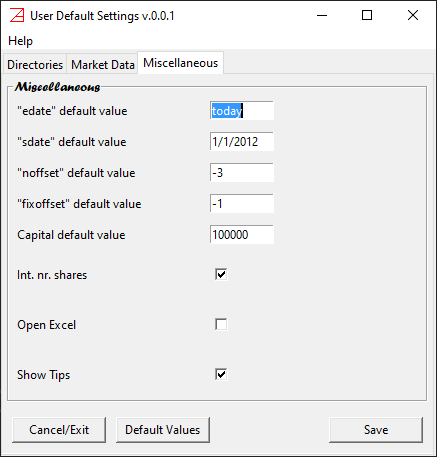
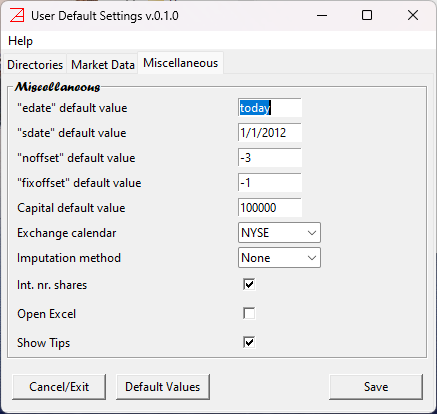
support for non-USA exchanges
support for non-USA exchanges and imputation.

diff --git a/azapyGUI/AppSettingsPageMisc.py b/azapyGUI/AppSettingsPageMisc.py
@@ -1,5 +1,8 @@
 import tkinter as tk
+import tkinter.ttk as ttk
 from copy import deepcopy
+import pandas as pd
+import azapy as az
 
 import azapyGUI.config as config
 import azapyGUI.configSettings as configSettings
@@ -26,7 +29,6 @@ class AppSettingsPageMisc(tk.Frame):
         
         # on frm
         self._setDef = configSettings.settings_model[self._category]
-        #self.settings = deepcopy(configSettings.MasterApplicationSettings)
         self.settings = {key: configSettings.MasterApplicationSettings[key] for key in self._setDef.keys()}
         row = 0
         self._chk_val = {}
@@ -35,25 +37,35 @@ class AppSettingsPageMisc(tk.Frame):
             match value["type"]:
                 case 'Checkbutton':
                     lbl = tk.Label(master=frm_set, text=value["field"], anchor=tk.W)
-                    lbl.grid(row=row, column=0, padx=5, pady=5, sticky=tk.EW)
+                    lbl.grid(row=row, column=0, padx=5, pady=2, sticky=tk.EW)
                     chk_var = tk.BooleanVar(master=frm_set, value=self.settings[param])
                     chk_btn = tk.Checkbutton(master=frm_set, variable = chk_var, 
                                              onvalue = True, offvalue = False, 
-                                             height=2, width=18, anchor=tk.W)
-                    chk_btn.grid(row=row, column=1, padx=5, pady=5, sticky=tk.W)
+                                             height=1, width=10, anchor=tk.W)
+                    chk_btn.grid(row=row, column=1, padx=5, pady=2, sticky=tk.W)
                     self._chk_val[param] = chk_var
                     self._chk_btn[param] = chk_btn
                     config.tiptil.bind(chk_btn, value["tip"])
                     row += 1
                 case 'Entry':
                     lbl = tk.Label(master=frm_set, text=value["field"], anchor=tk.W)
-                    lbl.grid(row=row, column=0, padx=5, pady=5, sticky=tk.W)
+                    lbl.grid(row=row, column=0, padx=5, pady=2, sticky=tk.W)
                     ent_var = tk.StringVar(master=frm_set, value=self.settings[param])
                     ent = tk.Entry(master=frm_set, textvariable=ent_var, validate='key', width=10)
                     ent['validatecommand'] = (ent.register(value["validate"]),'%S','%d','%P')
-                    ent.grid(row=row, column=1, padx=5, pady=5, sticky=tk.W)
+                    ent.grid(row=row, column=1, padx=5, pady=2, sticky=tk.W)
                     self._chk_val[param] = ent_var
                     config.tiptil.bind(ent, value["tip"])
+                    row += 1
+                case 'Combobox':
+                    lbl = tk.Label(master=frm_set, text=value["field"], anchor=tk.W)
+                    lbl.grid(row=row, column=0, padx=5, pady=2, sticky=tk.EW)
+                    cbx_var = tk.StringVar(master=frm_set, value=self.settings[param])
+                    cbx = ttk.Combobox(master=frm_set, textvariable=cbx_var, width=10, state='readonly')
+                    cbx["values"] = value["values"]
+                    cbx.grid(row=row, column=1, padx=5, pady=2, sticky=tk.W)
+                    self._chk_val[param] = cbx_var
+                    config.tiptil.bind(cbx, value["tip"])
                     row += 1
                 case _:
                     # you should not be here
@@ -88,14 +100,21 @@ class AppSettingsPageMisc(tk.Frame):
                         self._chk_btn[kk].select()
                     else:
                         self._chk_btn[kk].deselect()
-                case "Entry":
+                #case "Entry":
+                case _:
                     self._chk_val[kk].set(self.settings[kk])
         
         
     def _btn_save_func(self):
+        if self.settings['calendar'] != self._chk_val['calendar'].get():
+            config.MktDataDict.clear()
+            config.appMktDataFrame.refresh()
+
         self.settings.update({key: self._chk_val[key].get() for key in self._chk_val.keys()})
         configSettings.MasterApplicationSettings.update(self.settings)
         _saveMasterUserConfig(configSettings.MasterApplicationSettings)
         config.tiptil.turned(on=configSettings.MasterApplicationSettings["ShowTips"])
+        config.calendar = az.calendarGen(configSettings.MasterApplicationSettings["calendar"])
+        config._bday = pd.offsets.CustomBusinessDay(calendar=config.calendar)
 
                     

diff --git a/azapyGUI/configSettings.py b/azapyGUI/configSettings.py
@@ -2,7 +2,15 @@ import os
 import azapyGUI.configTips as configTips
 from azapyGUI.modelParametersValidation import _validDateMMDDYYYY, _validInt, _validIntNegative, _validIntPositive
 
-Version = '0.0.1'
+Version = '0.1.0'
+
+_exchange_calendar_values = ('NYSE', 'XBUE', 'XASX', 'XWBO', 'XBRU', 'BVMF', 'XTSE', 'XSGO', 'XSHG', 'XBOG', 
+                             'XPRA', 'XCSE', 'XLON', 'XHEL', 'XPAR', 'XFRA', 'ASEX', 'XHKG', 'XBUD', 'XICE', 
+                             'XBOM', 'XIDX', 'XDUB', 'XMIL', 'XTKS', 'XKLS', 'XMEX', 'XAMS', 'XNZE', 'XOSL', 
+                             'XKAR', 'XLIM', 'XPHS', 'XWAR', 'XLIS', 'XMOS', 'XSES', 'XJSE', 'XKRX', 'XMAD', 
+                             'XSTO', 'XSWX', 'XTAI', 'XBKK', 'XIST', 'XNYS')
+
+_imputation_method_values = ('None', 'linear')
 
 settings_model = {"Directors": {"UserPortfolioDirectory": {"default": None,
                                                            "type": 'ButtonDir',
@@ -93,6 +101,18 @@ settings_model = {"Directors": {"UserPortfolioDirectory": {"default": None,
                                                 "tip": configTips._settings_capital_default_tip,
                                                 "validate": _validIntPositive,
                                                 },
+                                    "calendar": {"default": 'NYSE',
+                                                 "type": 'Combobox',
+                                                 "field": 'Exchange calendar',
+                                                 "tip": configTips._exchange_calendar_tip,
+                                                 "values": _exchange_calendar_values,
+                                                },
+                                    "imputation": {"default": 'linear',
+                                                   "type": 'Combobox',
+                                                   "field": 'Imputation method',
+                                                   "tip": configTips._imputation_method_tip,
+                                                   "values": _imputation_method_values,
+                                                   },
                                     "nsh_round": {"default": True,
                                                   "type": 'Checkbutton',
                                                   "field": 'Int. nr. shares',
@@ -113,7 +133,6 @@ settings_model = {"Directors": {"UserPortfolioDirectory": {"default": None,
                   }
 
  
-
 def get_settings_default(category):
     rout = {kk:  vv["default"] for kk, vv in settings_model[category].items()}
     return rout

diff --git a/azapyGUI/serviceMasterUserConfig.py b/azapyGUI/serviceMasterUserConfig.py
@@ -1,5 +1,6 @@
 import pathlib
 import json
+import tkinter as tk
 
 import azapyGUI.configSettings as configSettings
 
@@ -9,15 +10,15 @@ def _fileMasterUserConfig():
 
 
 def _readMasterUserConfig():
-    out_file = _fileMasterUserConfig()
     try:
+        out_file = _fileMasterUserConfig()
         with open(out_file, 'r') as fp:
             data = json.load(fp)    
+        _update_version(data)
     except FileNotFoundError:
         data = configSettings.get_settings_default_all()
-        out_file.parent.mkdir(exist_ok=True, parents=True)
-        with open(out_file, 'w') as fp:
-            json.dump(data, fp)
+        _saveMasterUserConfig(data)
+
     return data
 
 
@@ -26,3 +27,16 @@ def _saveMasterUserConfig(data):
     out_file.parent.mkdir(exist_ok=True, parents=True)
     with open(out_file, 'w') as fp:
         json.dump(data, fp)
+
+
+def _update_version(data):
+    d_data = configSettings.get_settings_default_all()
+    if data['Version'] == d_data['Version']:
+        return 
+    
+    msg = f"The setting version was updated from {data['Version']} to {d_data['Version']}." + \
+          "Please check the Settings for new updated values."
+    tk.messagebox.showinfo(title='Setting Version Update', message=msg)
+    data = {kk: data.get(kk, vv) for kk, vv in d_data.items()}
+    data['Version'] = d_data['Version']
+    _saveMasterUserConfig(data)

diff --git a/azapyGUI/MktDataNode.py b/azapyGUI/MktDataNode.py
@@ -1,4 +1,5 @@
 import azapy as az
+import azapyGUI.config as config
 
 class MktDataNode:
     def __init__(self):
@@ -7,28 +8,33 @@ class MktDataNode:
         self.stats = None
         self.status = False
         self._summary = None
-        
-        
+
+
+    def _set_summary(self):
+        if self._summary is None: 
+            self._summary = az.summary_MkTdata(self.mktdata, calendar=config.calendar)
+
+
     def sdate(self):
-        if self._summary is None: self._summary = az.summary_MkTdata(self.mktdata)
+        self._set_summary()
         return self._summary.begin[0]
-    
-    
+
+
     def edate(self):
-        if self._summary is None: self._summary = az.summary_MkTdata(self.mktdata)
+        self._set_summary()
         return self._summary.end[0]
-    
-    
+
+
     def nrow(self):
-        if self._summary is None: self._summary = az.summary_MkTdata(self.mktdata)
+        self._set_summary()
         return self._summary.length[0]
-    
-    
+
+
     def iserror(self):
-        if self._summary is None: self._summary = az.summary_MkTdata(self.mktdata)
+        self._set_summary()
         return (self._summary.na_total[0] + self._summary.cont[0]) > 0
-    
-    
+
+
     def get_mktdata(self, edate=None):
         return self.mktdata if edate is None else self.mktdata[self.mktdata.index <= edate]
     

diff --git a/azapyGUI/GetMktData.py b/azapyGUI/GetMktData.py
@@ -4,6 +4,7 @@ from copy import deepcopy
 import azapyGUI.config as config
 import azapyGUI.configSettings as configSettings
 from azapyGUI.MktDataNode import MktDataNode
+from azapyGUI.modelParametersValidation import _validStr
 
 
 class GetMktData():
@@ -53,6 +54,9 @@ class GetMktData():
         # retrieve symb (not in the system)
         self._symb_req["symbol"] = symb
         mktdata = self._mktr.get(calendar=config.calendar, **self._symb_req)
+        imputation_method = _validStr(configSettings.MasterApplicationSettings['imputation'])
+        if imputation_method is not None:
+            mktdata = self._mktr.set_imputation(method=imputation_method)
         if len(mktdata.keys()) == 0:
             # no extraction was possible (all symb are error symbols)
             self.symbols = list(set(symbols) - set(symb))

diff --git a/azapyGUI/azapyApp.py b/azapyGUI/azapyApp.py
@@ -37,7 +37,7 @@ class app:
         config.MktDataDict = {}
         config.PortDataDict = {}
         config.count_SymbTableEntry = -1
-        config.calendar = az.NYSEgen()
+        config.calendar = az.calendarGen(configSettings.MasterApplicationSettings["calendar"])
         config._bday = pd.offsets.CustomBusinessDay(calendar=config.calendar)
         img = base64.b64decode(config.iconimgdata)
         config.photo = tk.PhotoImage(data=img, master=self._root)

diff --git a/azapyGUI/modelParametersValidation.py b/azapyGUI/modelParametersValidation.py
@@ -440,3 +440,8 @@ def _validDateMMDDYYYY(inp, acttype, val):
    
 def _list2string(lnames, bk=10):
     return '\n'.join([', '.join(lnames[k : (k + bk)]) for k in range(0, len(lnames), bk)])
+
+
+def _validStr(name):
+    rout = str(name)
+    return rout if rout.upper() not in ('NULL', 'NAN', 'NA', 'NONE') else None

diff --git a/docs/conf.py b/docs/conf.py
@@ -22,7 +22,7 @@ copyright = '2024, Mircea Marinescu'
 author = 'Mircea Marinescu'
 
 # The full version, including alpha/beta/rc tags
-release = '0.0.3'
+release = '0.0.4'
 
 
 # -- General configuration ---------------------------------------------------

diff --git a/azapyGUI/configTips.py b/azapyGUI/configTips.py
@@ -238,3 +238,9 @@ _sew_provider_tip = \
 
 _sew_force_tip = \
 "Check to force market data reding from provider (slower)."
+
+_exchange_calendar_tip = \
+"Exchange business calendar."
+
+_imputation_method_tip = \
+"Method to imputing missing data."

diff --git a/azapyGUI/config.py b/azapyGUI/config.py
@@ -1,4 +1,4 @@
-__version__ = '0.0.2'
+__version__ = '0.0.3'
 
 MktDataDict = {}
 PortDataDict = {}

diff --git a/docs/Calendars.md b/docs/Calendars.md
@@ -1,0 +1,50 @@
+### Exchange Business Calendars ###
+
+
+|Country|	ISO Code|	Exchange|
+|:------|:----------|:----------|
+|Argentina	|XBUE	|[Buenos Aires Stock Exchange	](https://www.bcba.sba.com.ar/)|
+|Australia	|XASX	|[Austrialian Securities Exchange	](https://www.asx.com.au/)|
+|Austria	|XWBO	|[Wiener Borse	](https://www.wienerborse.at/en/)|
+|Belgium	|XBRU	|[Euronext Brussels	](https://www.euronext.com/en/regulation/brussels)|
+|Brazil	    |BVMF	|[BMF Bovespa	](http://www.b3.com.br/en_us/)|
+|Canada	    |XTSE	|[Toronto Stock Exchange	](https://www.tsx.com/)|
+|Chile	    |XSGO	|[Santiago Stock Exchange	](http://inter.bolsadesantiago.com/sitios/en/Paginas/home.aspx)|
+|China	    |XSHG	|[Shanghai Stock Exchange	](http://english.sse.com.cn)|
+|Colombia	|XBOG	|[Colombia Securities Exchange	](https://www.bvc.com.co/nueva/index_en.html)|
+|Czech Republic	|XPRA	|[Prague Stock Exchange	](https://www.pse.cz/en/)|
+|Denmark	|XCSE	|[Copenhagen Stock Exchange	](http://www.nasdaqomxnordic.com/)|
+|England	|XLON	|[London Stock Exchange	](https://www.londonstockexchange.com/home/homepage.htm)|
+|Finland	|XHEL	|[Helsinki Stock Exchange	](http://www.nasdaqomxnordic.com/)|
+|France	    |XPAR	|[Euronext Paris	](https://www.euronext.com/en/regulation/paris)|
+|Germany	|XFRA	|[Frankfurt Stock Exchange	](http://en.boerse-frankfurt.de/)|
+|Greece	    |ASEX	|[Athens Stock Exchange	](http://www.helex.gr/)|
+|Hong Kong	|XHKG	|[Hong Kong Stock Exchange	](https://www.hkex.com.hk/?sc_lang=en)|
+|Hungary	|XBUD	|[Budapest Stock Exchange	](https://bse.hu/)|
+|Iceland	|XICE	|[Iceland Stock Exchange	](http://www.nasdaqomxnordic.com/)|
+|India	    |XBOM	|[Bombay Stock Exchange	](https://www.bseindia.com)|
+|Indonesia	|XIDX	|[Indonesia Stock Exchange	](https://www.idx.co.id/)|
+|Ireland	|XDUB	|[Irish Stock Exchange	](http://www.ise.ie/)|
+|Italy	    |XMIL	|[Borsa Italiana	](https://www.borsaitaliana.it/homepage/homepage.en.htm)|
+|Japan	    |XTKS	|[Tokyo Stock Exchange	](https://www.jpx.co.jp/english/)|
+|Malaysia	|XKLS	|[Malaysia Stock Exchange	](http://www.bursamalaysia.com/market/)|
+|Mexico	    |XMEX	|[Mexican Stock Exchange	](https://www.bmv.com.mx)|
+|Netherlands	|XAMS	|[Euronext Amsterdam	](https://www.euronext.com/en/regulation/amsterdam)|
+|New Zealand	|XNZE	|[New Zealand Exchange	](https://www.nzx.com/)|
+|Norway	    |XOSL	|[Oslo Stock Exchange	](https://www.oslobors.no/ob_eng/)|
+|Pakistan	|XKAR	|[Pakistan Stock Exchange	](https://www.psx.com.pk/)|
+|Peru	    |XLIM	|[Lima Stock Exchange	](https://www.bvl.com.pe)|
+|Philippines	|XPHS	|[Philippine Stock Exchange	](https://www.pse.com.ph/stockMarket/home.html)|
+|Poland	    |XWAR	|[Poland Stock Exchange	](http://www.gpw.pl)|
+|Portugal	|XLIS	|[Euronext Lisbon	](https://www.euronext.com/en/regulation/lisbon)|
+|Russia	    |XMOS	|[Moscow Exchange	](https://www.moex.com/en/)|
+|Singapore	|XSES	|[Singapore Exchange	](https://www.sgx.com)|
+|South Africa	|XJSE	|[Johannesburg Stock Exchange	](https://www.jse.co.za/z)|
+|South Korea	|XKRX	|[Korea Exchange	](http://global.krx.co.kr)|
+|Spain	    |XMAD	|[Bolsa de Madrid	](http://www.bolsamadrid.es/ing/aspx/Portada/Portada.aspx)|
+|Sweden	    |XSTO	|[Stockholm Stock Exchange	](http://www.nasdaqomxnordic.com/)|
+|Switzerland	|XSWX	|[SIX Swiss Exchange	](https://www.six-group.com/exchanges/index.html)|
+|Taiwan	    |XTAI	|[Taiwan Stock Exchange Corp.	](https://www.twse.com.tw/en/)|
+|Thailand	|XBKK	|[Stock Exchange of Thailand	](https://www.set.or.th/set/mainpage.do?language=en&country=US)|
+|Turkey	    |XIST	|[Istanbul Stock Exchange	](https://www.borsaistanbul.com/en/)|
+|USA	    |NYSE	|[New York Stock Exchange	](https://www.nyse.com/index)|

diff --git a/docs/Settings_Panel.md b/docs/Settings_Panel.md
@@ -100,6 +100,11 @@ the last few seconds before the market closes. For most of the retail users it i
 the fixing date is the closing day before the rebalancing date and the portfolio weights are computed relative to this closing (*e.g.*, if
 the rebalancing day is a Monday then the fixing date is the previous exchange business day; it could be a Friday).
 * `Capital` - default cash value of the capital. Our suggestion is $100,000.
+* `Exchange calendar` - exchange business calendar (ISO) name, [see the list of valid calendars names](./Calendars.md). It is the user responsibility to set 
+the exchange calendar relevant to the underlying portfolio symbols. The prevalent currency is the exchange currency (designated by the calendar). 
+You may adjust accordingly the `Capital` default value. For example the currency for London exchange is penny not pounds.
+If the calendar is changed during a session (an unusual operation), then all the loaded market data is removed. 
+* `Imputation method` - specifies how to replace the missing data. Possible values, `None` - no imputation, and `linear` - liner interpolation.
 * `Int nr. shares` - logical flag. If checked the number of shares (for rebalancing) are rounded to integer numbers. Most of the brokers 
 requires orders of integer number of shares. There are a few brokers that allowed for fractional number of shares. Before using them
 check the fee’s structure. It may be against you. Choosing an integer number of shares may introduce rebalancing roundup errors.
